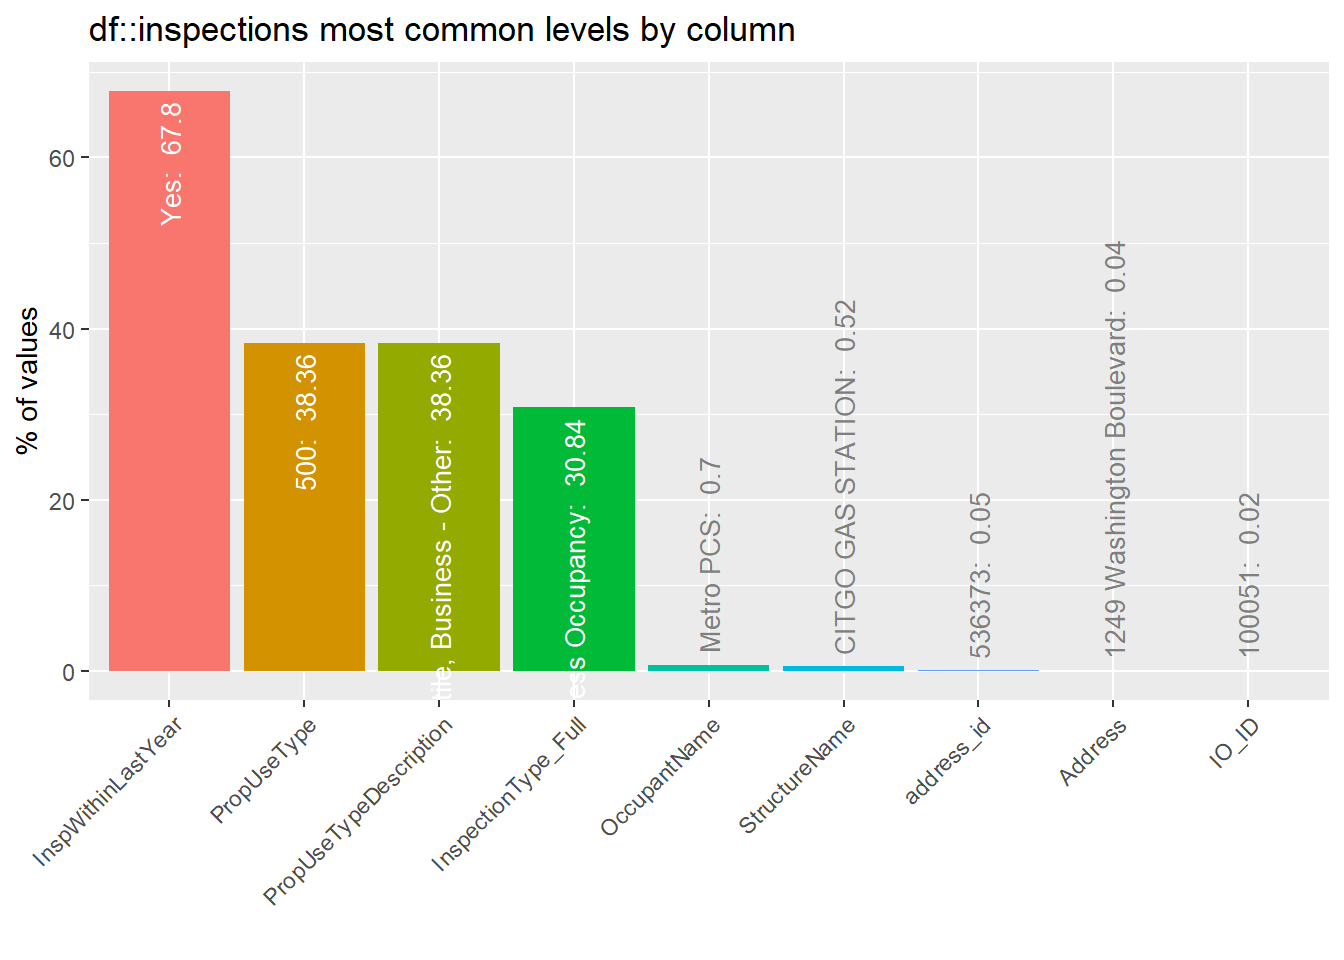
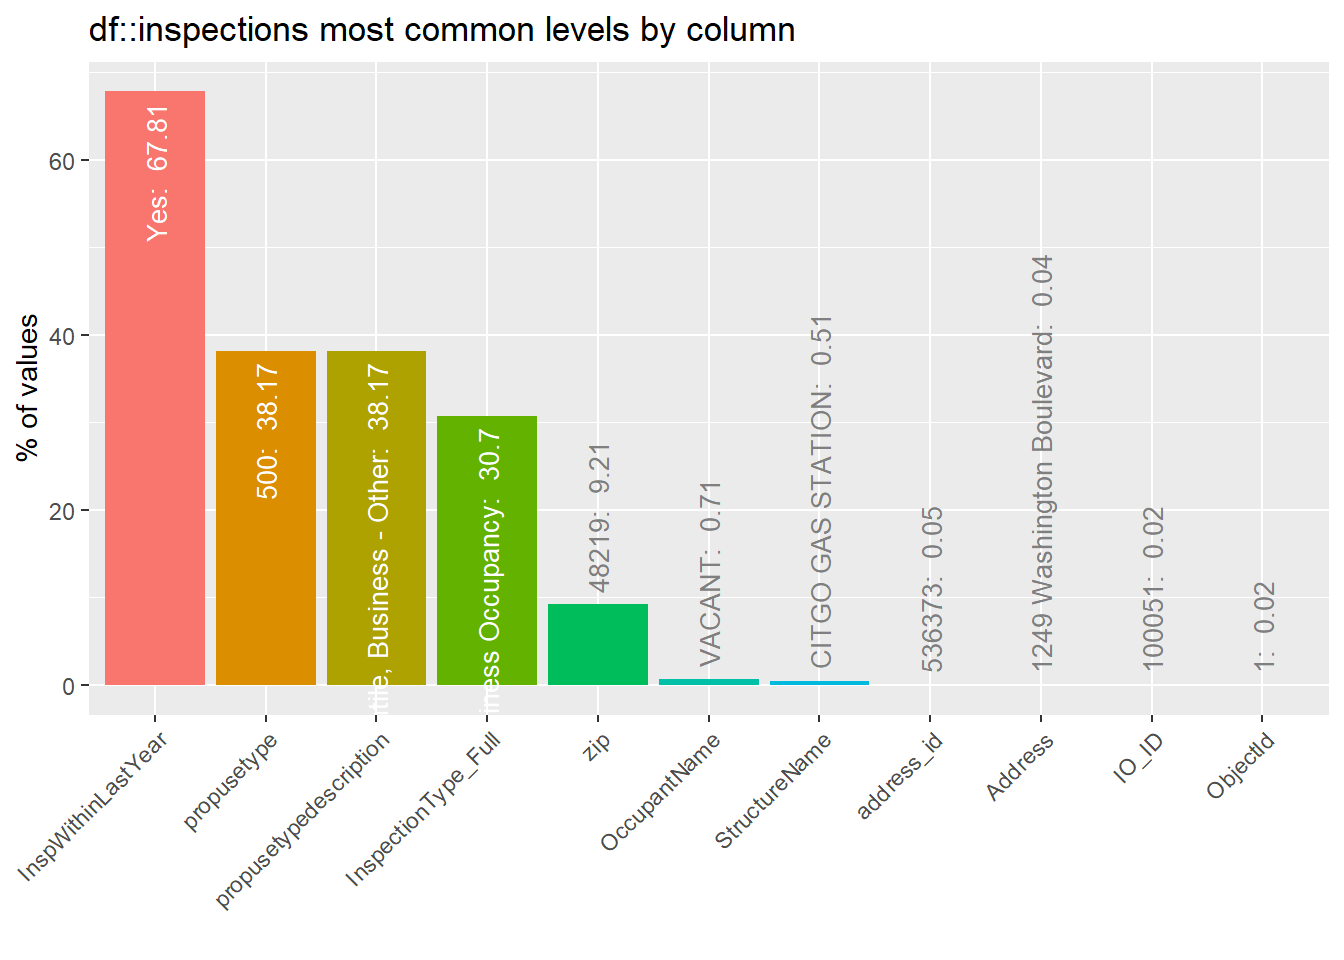
annotate fire inspections review, select items to display and work on

diff --git a/docs/exemplar/inspect_df_trial_fire_inspections.html b/docs/exemplar/inspect_df_trial_fire_inspections.html
@@ -180,11 +180,36 @@ code span.wa { color: #60a0b0; font-weight: bold; font-style: italic; } /* Warni
 </li>
       </ul>
   </li>
-        <li class="sidebar-item">
+        <li class="sidebar-item sidebar-item-section">
+      <div class="sidebar-item-container"> 
+            <a href="../metadata_flow/index.html" class="sidebar-item-text sidebar-link">Metadata flow</a>
+          <a class="sidebar-item-toggle text-start" data-bs-toggle="collapse" data-bs-target="#quarto-sidebar-section-2" aria-expanded="true">
+            <i class="bi bi-chevron-right ms-2"></i>
+          </a> 
+      </div>
+      <ul id="quarto-sidebar-section-2" class="collapse list-unstyled sidebar-section depth1 show">  
+          <li class="sidebar-item">
   <div class="sidebar-item-container"> 
-  <a href="../data_dot_gov.html" class="sidebar-item-text sidebar-link">Data discovery</a>
+  <a href="../metadata_flow/new_from_cod_to_odp.html" class="sidebar-item-text sidebar-link">New ODP data sets from CoD</a>
   </div>
 </li>
+      </ul>
+  </li>
+        <li class="sidebar-item sidebar-item-section">
+      <div class="sidebar-item-container"> 
+            <a href="../discovery/index.html" class="sidebar-item-text sidebar-link">Data discovery</a>
+          <a class="sidebar-item-toggle text-start" data-bs-toggle="collapse" data-bs-target="#quarto-sidebar-section-3" aria-expanded="true">
+            <i class="bi bi-chevron-right ms-2"></i>
+          </a> 
+      </div>
+      <ul id="quarto-sidebar-section-3" class="collapse list-unstyled sidebar-section depth1 show">  
+          <li class="sidebar-item">
+  <div class="sidebar-item-container"> 
+  <a href="../discovery/data_dot_gov.html" class="sidebar-item-text sidebar-link">Preparing ODP data for Data.gov</a>
+  </div>
+</li>
+      </ul>
+  </li>
         <li class="sidebar-item">
   <div class="sidebar-item-container"> 
   <a href="../about.html" class="sidebar-item-text sidebar-link">About</a>
@@ -202,6 +227,11 @@ code span.wa { color: #60a0b0; font-weight: bold; font-style: italic; } /* Warni
   <li><a href="#dimensions-and-variables" id="toc-dimensions-and-variables" class="nav-link active" data-scroll-target="#dimensions-and-variables">Dimensions and variables</a>
   <ul class="collapse">
   <li><a href="#null-value-prevalence" id="toc-null-value-prevalence" class="nav-link" data-scroll-target="#null-value-prevalence">Null value prevalence</a></li>
+  <li><a href="#annual-inspection-type" id="toc-annual-inspection-type" class="nav-link" data-scroll-target="#annual-inspection-type">Annual inspection type</a></li>
+  <li><a href="#property-use-type" id="toc-property-use-type" class="nav-link" data-scroll-target="#property-use-type">Property use type</a></li>
+  <li><a href="#inspected-within-last-year" id="toc-inspected-within-last-year" class="nav-link" data-scroll-target="#inspected-within-last-year">Inspected within last year</a></li>
+  <li><a href="#most-common-values-in-categorical-variables-columns" id="toc-most-common-values-in-categorical-variables-columns" class="nav-link" data-scroll-target="#most-common-values-in-categorical-variables-columns">Most common values in categorical variables (columns)</a></li>
+  <li><a href="#number-of-unique-values-and-prevalence-of-most-common-values-by-column" id="toc-number-of-unique-values-and-prevalence-of-most-common-values-by-column" class="nav-link" data-scroll-target="#number-of-unique-values-and-prevalence-of-most-common-values-by-column">Number of unique values and prevalence of most common values by column</a></li>
   </ul></li>
   </ul>
 <div class="toc-actions"><div><i class="bi bi-github"></i></div><div class="action-links"><p><a href="https://github.com/lsheble/odp_meta_preview/edit/main/exemplar/inspect_df_trial_fire_inspections.qmd" class="toc-action">Edit this page</a></p><p><a href="https://github.com/lsheble/odp_meta_preview/issues/new" class="toc-action">Report an issue</a></p></div></div></nav>
@@ -290,6 +320,7 @@ code span.wa { color: #60a0b0; font-weight: bold; font-style: italic; } /* Warni
 </div>
 <section id="null-value-prevalence" class="level3">
 <h3 class="anchored" data-anchor-id="null-value-prevalence">Null value prevalence</h3>
+<p>Across the fire inspections data set, 6 columns include ‘NA’ or null values. One column, ‘StructureName’ is used by DFD on an ad hoc basis for directional purposes in inspection workflows and is only indicated in inspection records when helpful. Null values in the remaining five fields originate from geocoding. These null values represent addresses that were not identified when the data set was geocoded.</p>
 <div class="cell" data-label="null-overview">
 <details>
 <summary>Code</summary>
@@ -299,6 +330,9 @@ code span.wa { color: #60a0b0; font-weight: bold; font-style: italic; } /* Warni
 <p><img src="inspect_df_trial_fire_inspections_files/figure-html/unnamed-chunk-5-1.png" class="img-fluid" width="672"></p>
 </div>
 </div>
+</section>
+<section id="annual-inspection-type" class="level3">
+<h3 class="anchored" data-anchor-id="annual-inspection-type">Annual inspection type</h3>
 <div class="cell">
 <details>
 <summary>Code</summary>
@@ -326,6 +360,9 @@ code span.wa { color: #60a0b0; font-weight: bold; font-style: italic; } /* Warni
 <p><img src="inspect_df_trial_fire_inspections_files/figure-html/unnamed-chunk-7-1.png" class="img-fluid" width="672"></p>
 </div>
 </div>
+</section>
+<section id="property-use-type" class="level3">
+<h3 class="anchored" data-anchor-id="property-use-type">Property use type</h3>
 <div class="cell">
 <details>
 <summary>Code</summary>
@@ -340,20 +377,16 @@ code span.wa { color: #60a0b0; font-weight: bold; font-style: italic; } /* Warni
 </div>
 </div>
 </div>
-<div class="cell">
-<details>
-<summary>Code</summary>
-<div class="sourceCode cell-code" id="cb9"><pre class="sourceCode r code-with-copy"><code class="sourceCode r"><span id="cb9-1"><a href="#cb9-1" aria-hidden="true" tabindex="-1"></a><span class="fu">ggplot</span>(inspections, <span class="fu">aes</span>(<span class="at">x =</span> <span class="fu">fct_infreq</span>(propusetypedescription))) <span class="sc">+</span> </span>
-<span id="cb9-2"><a href="#cb9-2" aria-hidden="true" tabindex="-1"></a>  <span class="fu">geom_bar</span>() <span class="sc">+</span> <span class="fu">coord_flip</span>()</span></code><button title="Copy to Clipboard" class="code-copy-button"><i class="bi"></i></button></pre></div>
-</details>
-<div class="cell-output-display">
-<p><img src="inspect_df_trial_fire_inspections_files/figure-html/unnamed-chunk-9-1.png" class="img-fluid" width="672"></p>
+<div class="cell" data-evaluate="false">
+
 </div>
+<div class="cell" data-evaluate="false">
+
 </div>
 <div class="cell">
 <details>
 <summary>Code</summary>
-<div class="sourceCode cell-code" id="cb10"><pre class="sourceCode r code-with-copy"><code class="sourceCode r"><span id="cb10-1"><a href="#cb10-1" aria-hidden="true" tabindex="-1"></a>inspections <span class="sc">%&gt;%</span> <span class="fu">count</span>(propusetypedescription, <span class="at">sort=</span><span class="cn">TRUE</span>)</span></code><button title="Copy to Clipboard" class="code-copy-button"><i class="bi"></i></button></pre></div>
+<div class="sourceCode cell-code" id="cb9"><pre class="sourceCode r code-with-copy"><code class="sourceCode r"><span id="cb9-1"><a href="#cb9-1" aria-hidden="true" tabindex="-1"></a>inspections <span class="sc">%&gt;%</span> <span class="fu">count</span>(propusetypedescription, <span class="at">sort=</span><span class="cn">TRUE</span>)</span></code><button title="Copy to Clipboard" class="code-copy-button"><i class="bi"></i></button></pre></div>
 </details>
 <div class="cell-output-display">
 
@@ -364,10 +397,13 @@ code span.wa { color: #60a0b0; font-weight: bold; font-style: italic; } /* Warni
 </div>
 </div>
 </div>
+</section>
+<section id="inspected-within-last-year" class="level3">
+<h3 class="anchored" data-anchor-id="inspected-within-last-year">Inspected within last year</h3>
 <div class="cell">
 <details>
 <summary>Code</summary>
-<div class="sourceCode cell-code" id="cb11"><pre class="sourceCode r code-with-copy"><code class="sourceCode r"><span id="cb11-1"><a href="#cb11-1" aria-hidden="true" tabindex="-1"></a>inspections <span class="sc">%&gt;%</span> <span class="fu">count</span>(InspWithinLastYear, <span class="at">sort=</span><span class="cn">TRUE</span>)</span></code><button title="Copy to Clipboard" class="code-copy-button"><i class="bi"></i></button></pre></div>
+<div class="sourceCode cell-code" id="cb10"><pre class="sourceCode r code-with-copy"><code class="sourceCode r"><span id="cb10-1"><a href="#cb10-1" aria-hidden="true" tabindex="-1"></a>inspections <span class="sc">%&gt;%</span> <span class="fu">count</span>(InspWithinLastYear, <span class="at">sort=</span><span class="cn">TRUE</span>)</span></code><button title="Copy to Clipboard" class="code-copy-button"><i class="bi"></i></button></pre></div>
 </details>
 <div class="cell-output-display">
 
@@ -379,34 +415,40 @@ code span.wa { color: #60a0b0; font-weight: bold; font-style: italic; } /* Warni
 </div>
 <details>
 <summary>Code</summary>
-<div class="sourceCode cell-code" id="cb12"><pre class="sourceCode r code-with-copy"><code class="sourceCode r"><span id="cb12-1"><a href="#cb12-1" aria-hidden="true" tabindex="-1"></a><span class="fu">ggplot</span>(inspections, <span class="fu">aes</span>(<span class="at">x =</span> <span class="fu">fct_infreq</span>(InspWithinLastYear))) <span class="sc">+</span> </span>
-<span id="cb12-2"><a href="#cb12-2" aria-hidden="true" tabindex="-1"></a>  <span class="fu">geom_bar</span>()</span></code><button title="Copy to Clipboard" class="code-copy-button"><i class="bi"></i></button></pre></div>
+<div class="sourceCode cell-code" id="cb11"><pre class="sourceCode r code-with-copy"><code class="sourceCode r"><span id="cb11-1"><a href="#cb11-1" aria-hidden="true" tabindex="-1"></a><span class="fu">ggplot</span>(inspections, <span class="fu">aes</span>(<span class="at">x =</span> <span class="fu">fct_infreq</span>(InspWithinLastYear))) <span class="sc">+</span> </span>
+<span id="cb11-2"><a href="#cb11-2" aria-hidden="true" tabindex="-1"></a>  <span class="fu">geom_bar</span>()</span></code><button title="Copy to Clipboard" class="code-copy-button"><i class="bi"></i></button></pre></div>
 </details>
 <div class="cell-output-display">
-<p><img src="inspect_df_trial_fire_inspections_files/figure-html/unnamed-chunk-11-1.png" class="img-fluid" width="672"></p>
+<p><img src="inspect_df_trial_fire_inspections_files/figure-html/unnamed-chunk-12-1.png" class="img-fluid" width="672"></p>
 </div>
 </div>
 <div class="cell">
 <details>
 <summary>Code</summary>
-<div class="sourceCode cell-code" id="cb13"><pre class="sourceCode r code-with-copy"><code class="sourceCode r"><span id="cb13-1"><a href="#cb13-1" aria-hidden="true" tabindex="-1"></a><span class="co"># Need to bin by month or year - this is unbinned</span></span>
-<span id="cb13-2"><a href="#cb13-2" aria-hidden="true" tabindex="-1"></a><span class="co"># inspections %&gt;% select(LatestInspDate)</span></span>
-<span id="cb13-3"><a href="#cb13-3" aria-hidden="true" tabindex="-1"></a><span class="co"># ggplot(inspections, aes(x=LatestInspDate)) + stat_count(geom='point')</span></span></code><button title="Copy to Clipboard" class="code-copy-button"><i class="bi"></i></button></pre></div>
+<div class="sourceCode cell-code" id="cb12"><pre class="sourceCode r code-with-copy"><code class="sourceCode r"><span id="cb12-1"><a href="#cb12-1" aria-hidden="true" tabindex="-1"></a><span class="co"># Need to bin by month or year - this is unbinned</span></span>
+<span id="cb12-2"><a href="#cb12-2" aria-hidden="true" tabindex="-1"></a><span class="co"># inspections %&gt;% select(LatestInspDate)</span></span>
+<span id="cb12-3"><a href="#cb12-3" aria-hidden="true" tabindex="-1"></a><span class="co"># ggplot(inspections, aes(x=LatestInspDate)) + stat_count(geom='point')</span></span></code><button title="Copy to Clipboard" class="code-copy-button"><i class="bi"></i></button></pre></div>
 </details>
 </div>
+</section>
+<section id="most-common-values-in-categorical-variables-columns" class="level3">
+<h3 class="anchored" data-anchor-id="most-common-values-in-categorical-variables-columns">Most common values in categorical variables (columns)</h3>
 <div class="cell">
 <details>
 <summary>Code</summary>
-<div class="sourceCode cell-code" id="cb14"><pre class="sourceCode r code-with-copy"><code class="sourceCode r"><span id="cb14-1"><a href="#cb14-1" aria-hidden="true" tabindex="-1"></a><span class="fu">inspect_imb</span>(inspections) <span class="sc">%&gt;%</span> <span class="fu">show_plot</span>()</span></code><button title="Copy to Clipboard" class="code-copy-button"><i class="bi"></i></button></pre></div>
+<div class="sourceCode cell-code" id="cb13"><pre class="sourceCode r code-with-copy"><code class="sourceCode r"><span id="cb13-1"><a href="#cb13-1" aria-hidden="true" tabindex="-1"></a><span class="fu">inspect_imb</span>(inspections) <span class="sc">%&gt;%</span> <span class="fu">show_plot</span>()</span></code><button title="Copy to Clipboard" class="code-copy-button"><i class="bi"></i></button></pre></div>
 </details>
 <div class="cell-output-display">
-<p><img src="inspect_df_trial_fire_inspections_files/figure-html/unnamed-chunk-13-1.png" class="img-fluid" width="672"></p>
+<p><img src="inspect_df_trial_fire_inspections_files/figure-html/unnamed-chunk-14-1.png" class="img-fluid" width="672"></p>
 </div>
 </div>
+</section>
+<section id="number-of-unique-values-and-prevalence-of-most-common-values-by-column" class="level3">
+<h3 class="anchored" data-anchor-id="number-of-unique-values-and-prevalence-of-most-common-values-by-column">Number of unique values and prevalence of most common values by column</h3>
 <div class="cell">
 <details>
 <summary>Code</summary>
-<div class="sourceCode cell-code" id="cb15"><pre class="sourceCode r code-with-copy"><code class="sourceCode r"><span id="cb15-1"><a href="#cb15-1" aria-hidden="true" tabindex="-1"></a><span class="fu">inspect_cat</span>(inspections)</span></code><button title="Copy to Clipboard" class="code-copy-button"><i class="bi"></i></button></pre></div>
+<div class="sourceCode cell-code" id="cb14"><pre class="sourceCode r code-with-copy"><code class="sourceCode r"><span id="cb14-1"><a href="#cb14-1" aria-hidden="true" tabindex="-1"></a><span class="fu">inspect_cat</span>(inspections)</span></code><button title="Copy to Clipboard" class="code-copy-button"><i class="bi"></i></button></pre></div>
 </details>
 <div class="cell-output-display">
 
@@ -420,21 +462,7 @@ code span.wa { color: #60a0b0; font-weight: bold; font-style: italic; } /* Warni
 <div class="cell">
 <details>
 <summary>Code</summary>
-<div class="sourceCode cell-code" id="cb16"><pre class="sourceCode r code-with-copy"><code class="sourceCode r"><span id="cb16-1"><a href="#cb16-1" aria-hidden="true" tabindex="-1"></a>inspections <span class="sc">%&gt;%</span> <span class="fu">distinct</span>(propusetype, propusetypedescription)  <span class="co">#%&gt;% select(PropUseType, PropUseTypeDescription)</span></span></code><button title="Copy to Clipboard" class="code-copy-button"><i class="bi"></i></button></pre></div>
-</details>
-<div class="cell-output-display">
-
-<div data-pagedtable="false">
-  <script data-pagedtable-source="" type="application/json">
-{"columns":[{"label":["propusetype"],"name":[1],"type":["fct"],"align":["left"]},{"label":["propusetypedescription"],"name":[2],"type":["fct"],"align":["left"]}],"data":[{"1":"100","2":"Assembly - Other"},{"1":"200","2":"Educational - Other"},{"1":"215","2":"High School/Junior High School/Middle School"},{"1":"500","2":"Mercantile, Business - Other"},{"1":"557","2":"Personal Service, Including Barber & Beauty Shops"},{"1":"579","2":"Motor Vehicle or Boat Sales, Services, Repair"},{"1":"160","2":"Eating, Drinking Places - Other"},{"1":"564","2":"Laundry, Dry Cleaning"},{"1":"571","2":"Service Station, Gas Station"},{"1":"592","2":"Bank"},{"1":"400","2":"Residential - Other"},{"1":"142","2":"Clubhouse"},{"1":"341","2":"Clinic, Clinic-type Infirmary"},{"1":"UUU","2":"Undetermined"},{"1":"162","2":"Bar or Nightclub"},{"1":"600","2":"Ind., Utility, Defense, Agriculture, Mining - Other"},{"1":"700","2":"Manufacturing, Processing"},{"1":"161","2":"Restaurant or Cafeteria"},{"1":"254","2":"Day Care, In Commercial Property"},{"1":"599","2":"Business Office"},{"1":"130","2":"Places Of Worship, Funeral Parlors - Other"},{"1":"213","2":"Elementary School, Including Kindergarten"},{"1":"882","2":"Parking Garage, General Vehicle"},{"1":"519","2":"Food And Beverage Sales, Grocery Store"},{"1":"000","2":"Property Use - Other"},{"1":"241","2":"Adult Education Center, College Classroom"},{"1":"210","2":"Schools, Non-Adult - Other"},{"1":"549","2":"Specialty Shop"},{"1":"300","2":"Health Care, Detention & Correction - Other"},{"1":"340","2":"Clinics, Doctors Offices, Hemodialysis Cntr - Other"},{"1":"800","2":"Storage - Other"},{"1":"449","2":"Hotel/motel, Commercial"},{"1":"511","2":"Convenience Store"},{"1":"131","2":"Church, Mosque, Synagogue, Temple, Chapel"},{"1":"900","2":"Outside or Special Property - Other"},{"1":"936","2":"Vacant Lot"},{"1":"593","2":"Office: Veterinary or Research"},{"1":"655","2":"Crops or Orchard"},{"1":"459","2":"Residential Board And Care"},{"1":"439","2":"Boarding/rooming House, Residential Hotels"},{"1":"596","2":"Post Office or Mailing Firms"},{"1":"529","2":"Textile, Wearing Apparel Sales"},{"1":"960","2":"Street - Other"},{"1":"NNN","2":"None"},{"1":"569","2":"Professional Supplies, Services"},{"1":"559","2":"Recreational, Hobby, Home Repair Sales, Pet Store"},{"1":"115","2":"Roller Rink: Indoor or Outdoor"},{"1":"141","2":"Athletic/Health Club"},{"1":"120","2":"Variable-use Amusement, Recreation Places - Other"},{"1":"140","2":"Clubs - Other"},{"1":"891","2":"Warehouse"},{"1":"926","2":"Outbuilding, Protective Shelter"},{"1":"921","2":"Bridge, Trestle"},{"1":"581","2":"Department or Discount Store"},{"1":"361","2":"Jail, Prison (not Juvenile)"},{"1":"880","2":"Vehicle Storage - Other"},{"1":"170","2":"Passenger Terminal - Other"},{"1":"580","2":"General Retail - Other"},{"1":"121","2":"Ballroom, Gymnasium"},{"1":"152","2":"Museum"},{"1":"460","2":"Dormitory-type Residence - Other"},{"1":"331","2":"Hospital - Medical or Psychiatric"},{"1":"839","2":"Refrigerated Storage"},{"1":"111","2":"Bowling Establishment"},{"1":"342","2":"Doctor, Dentist or Oral Surgeon Office"},{"1":"183","2":"Movie Theater"},{"1":"645","2":"Flammable Liquid Distribution, F.l. Pipeline"},{"1":"143","2":"Yacht Club"}],"options":{"columns":{"min":{},"max":[10]},"rows":{"min":[10],"max":[10]},"pages":{}}}
-  </script>
-</div>
-</div>
-</div>
-<div class="cell">
-<details>
-<summary>Code</summary>
-<div class="sourceCode cell-code" id="cb17"><pre class="sourceCode r code-with-copy"><code class="sourceCode r"><span id="cb17-1"><a href="#cb17-1" aria-hidden="true" tabindex="-1"></a><span class="co"># inspections %&gt;% arrange(propusetype) %&gt;% distinct(propusetypedescription) %&gt;% arrange(.by_group = TRUE)</span></span></code><button title="Copy to Clipboard" class="code-copy-button"><i class="bi"></i></button></pre></div>
+<div class="sourceCode cell-code" id="cb15"><pre class="sourceCode r code-with-copy"><code class="sourceCode r"><span id="cb15-1"><a href="#cb15-1" aria-hidden="true" tabindex="-1"></a><span class="co"># inspections %&gt;% arrange(propusetype) %&gt;% distinct(propusetypedescription) %&gt;% arrange(.by_group = TRUE)</span></span></code><button title="Copy to Clipboard" class="code-copy-button"><i class="bi"></i></button></pre></div>
 </details>
 </div>
 
